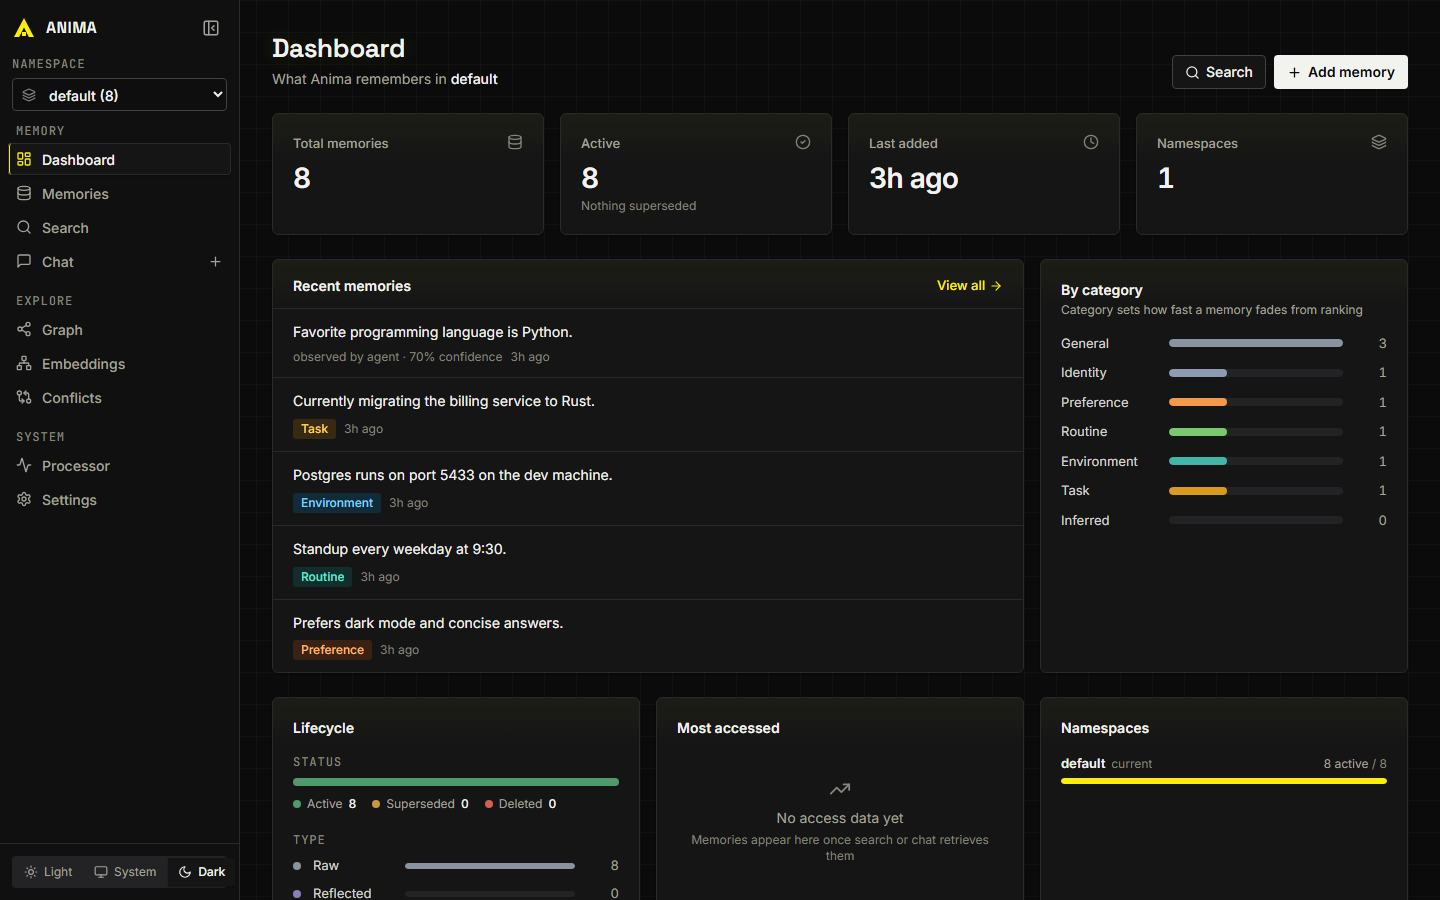
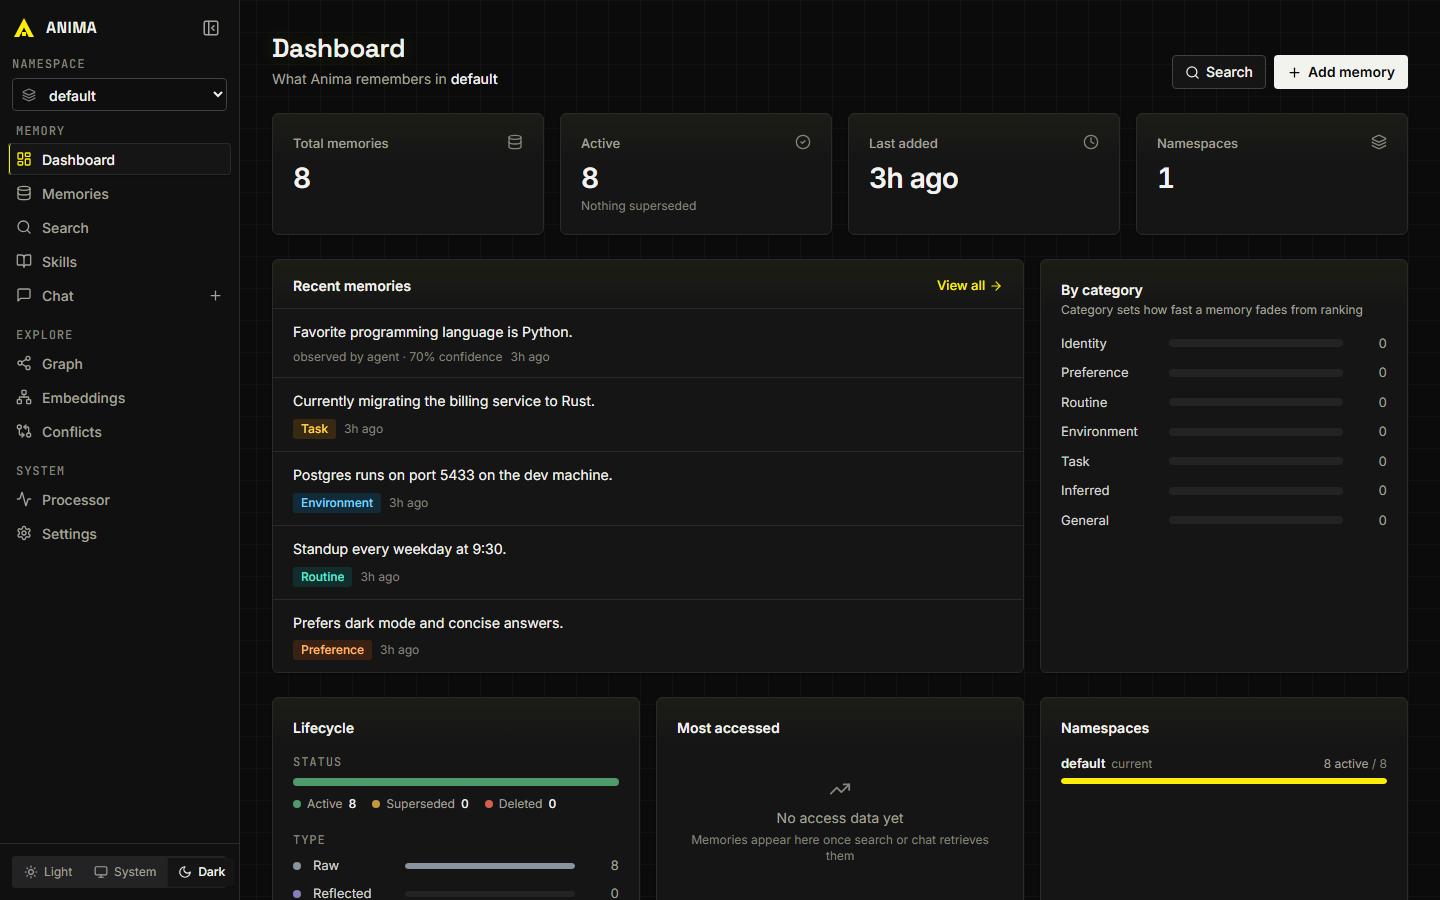
docs: document the briefing and skills

diff --git a/README.md b/README.md
@@ -25,6 +25,7 @@ Your memories belong to you, not your LLM provider.
 - [Quickstart](#quickstart)
 - [LLM setup](#llm-setup)
 - [Connect your tools](#connect-your-tools)
+- [Briefing and skills](#briefing-and-skills)
 - [Move to another machine](#move-to-another-machine)
 - [Integrations](#integrations)
 - [Concepts](#concepts)
@@ -175,11 +176,14 @@ anima-server connect all             # every supported harness found on this mac
 
 | Harness          | MCP server | Instructions            | Automatic recall |
 | ---------------- | ---------- | ----------------------- | ---------------- |
-| `claude`         | yes        | `~/.claude/CLAUDE.md`   | hooks            |
+| `claude`         | yes        | `CLAUDE.md` and skill   | hooks            |
 | `claude-desktop` | yes        |                         |                  |
-| `codex`          | yes        | `~/.codex/AGENTS.md`    |                  |
+| `codex`          | yes        | `AGENTS.md` and skill   |                  |
 | `cursor`         | yes        |                         |                  |
-| `hermes`         | yes        |                         |                  |
+| `hermes`         | yes        | skill                   |                  |
+
+The skill is `anima`, a guide installed in the harness's own skills folder
+that tells the model when to search memory, what to save and how to correct it.
 
 `anima-server connect print` prints the MCP entry and instructions for any
 other MCP client.
@@ -197,6 +201,42 @@ anima-server connect all --url https://memory.example.org --api-key "$ANIMA_API_
 The address and key are saved to `~/.anima/client.json`, not to the harness
 files.
 
+## Briefing and skills
+
+At the start of a session a connected harness receives a briefing: who you
+are, what is relevant to the current project, and which skills exist. It is
+built without an LLM in a few milliseconds and held to a character budget, so
+it stays small however much Anima remembers.
+
+```text
+About the user:
+- Prefers dark mode and concise answers.
+- My favorite programming language is Rust. (also on record, less trusted: "Favorite programming language is Python.")
+
+Relevant to billing:
+- Currently migrating the billing service to Rust.
+
+Skills stored in Anima (load one with skill_get before using it):
+- release-checklist: Steps to cut a release of a Rust service.
+```
+
+Memories about the same thing are collapsed to the most trusted one, and a
+disagreement stays visible instead of being silently resolved. With each
+message, the harness also receives the memories matching it that the briefing
+did not already include.
+
+Skills are reusable instructions: checklists, procedures, house style. Only
+their names and descriptions go into the briefing; the body is loaded on
+demand, so many skills cost little context. Existing `SKILL.md` folders load as
+they are:
+
+```bash
+anima-server skills add ~/.claude/skills
+anima-server skills list
+```
+
+Details are in [docs/concepts/briefing-and-skills.mdx](docs/concepts/briefing-and-skills.mdx).
+
 ## Move to another machine
 
 ```bash
@@ -205,8 +245,8 @@ anima-server import memories.json    # on the new one
 anima-server connect all
 ```
 
-The export is plain JSON holding every namespace, with original IDs, dates,
-categories and confidence. It carries no embeddings, so it does not depend on
+The export is plain JSON holding every namespace and every skill, with original
+IDs, dates, categories and confidence. It carries no embeddings, so it does not depend on
 the embedding model: the receiving server re-embeds on import. Importing twice
 is safe; memories already present are skipped, and deleted ones stay deleted.
 
@@ -247,18 +287,19 @@ Then add it to your MCP config:
 ```
 
 Tools: `memory_search`, `memory_add`, `memory_update`, `memory_delete`,
-`memory_list`, `memory_stats`, `memory_ask`, `memory_reflect`, and
-`memory_discover`.
+`memory_list`, `memory_stats`, `memory_ask`, `memory_reflect`,
+`memory_discover`, `memory_briefing`, `skill_list`, `skill_get`, `skill_save`,
+and `skill_delete`.
 
 ### Web UI
 
-Open `http://localhost:3000` to browse and edit memories, run searches, chat,
+Open `http://localhost:3000` to browse and edit memories and skills, run searches, chat,
 explore the memory graph, inspect conflicts and embeddings, and change
 settings. Light and dark themes are included.
 
-| Memories | Settings |
-| -------- | -------- |
-| ![Memories page](docs/images/memories.png) | ![Settings page](docs/images/settings.png) |
+| Memories | Skills |
+| -------- | ------ |
+| ![Memories page](docs/images/memories.png) | ![Skills page](docs/images/skills.png) |
 
 ### REST API
 
@@ -276,6 +317,8 @@ reference is in [docs/api-reference](docs/api-reference). Key routes:
 | `POST /api/v1/ask`                    | Retrieval-augmented answer, with `conflicts`             |
 | `POST /api/v1/chat`                   | Conversational interface                                 |
 | `GET /api/v1/contradictions`          | Contradiction ledger                                     |
+| `POST /api/v1/briefing`               | Budgeted briefing for a session or a prompt              |
+| `GET /api/v1/skills`, `/skills/{name}`| List, read, save and delete skills                       |
 | `GET /api/v1/audit/events`            | Audit trail                                              |
 | `GET /api/v1/profiles`                | Resolved LLM profiles and routing                        |
 | `GET /api/v1/calibration/weights`     | Current auto-tuned search weights                        |
